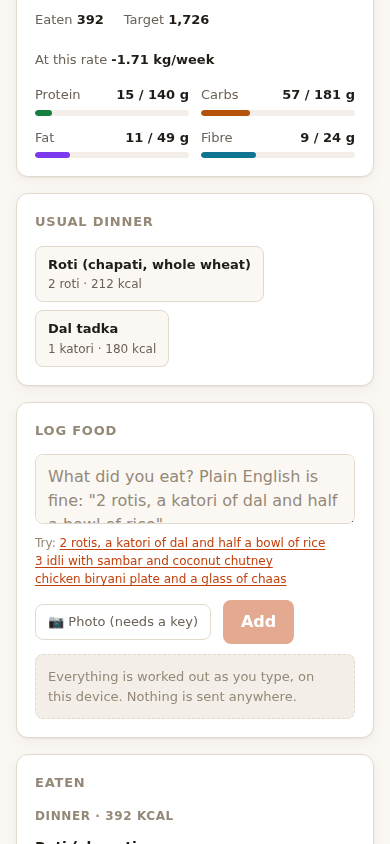
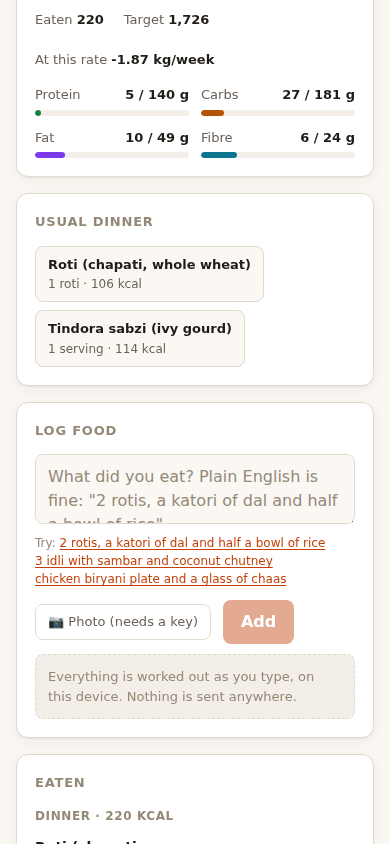
Stop unknown vegetables coming back as naan
Two faults, one visible symptom. Typing "tindori" logged Naan at 81%
confidence.

The first is a plain gap: tindora was not in the table, and neither were
karela, turai, parwal, arbi, kathal, suran, tinda, drumstick, gawar,
kaddu, sarson ka saag, raw banana, masoor dal or urad dal. Eighteen
entries added with their regional names as aliases, so tendli, kundru
and tondli all reach the same row.

The second is worse, because it would have mislabelled any missing food.
When no word in a phrase is known, the matcher falls back to pure
spelling similarity - which is right for "panner", and badly wrong here:
"tindori" is one vowel from "tandoori" and a completely different dish.
Edit distance cannot tell those apart, so a fallback match now has to be
near-exact to be asserted at all. Anything less is demoted below the
acceptance threshold and offered as "did you mean", with the near misses
listed, instead of being logged silently.

Two-letter fragments no longer enter the vocabulary either. "ka" appears
in "Sarson ka saag", which was enough to make "bhutte ka kees" look like
a recognised dish; Hindi connectives are now filler words on both sides
of the comparison.

Five regression tests, including the exact reported input.

diff --git a/src/data/foods.ts b/src/data/foods.ts
@@ -188,6 +188,42 @@ export const FOODS: Food[] = [
     [95, 2.6, 9, 5.4, 3.5], 'indian veg south sabzi', { portions: { ...SABZI } }),
   f('bhaji', 'Pav bhaji (bhaji only)', 'pav bhaji|bhaaji',
     [125, 2.8, 13, 7, 3.4], 'indian veg street', { portions: { ...SABZI } }),
+  f('tindora', 'Tindora sabzi (ivy gourd)', 'tindora|tindori|tendli|tondli|kundru|ivy gourd|tindora fry',
+    [95, 1.6, 7, 6.5, 3], 'indian veg sabzi', { portions: { ...SABZI } }),
+  f('tinda', 'Tinda sabzi (apple gourd)', 'tinda|tinday|apple gourd|round gourd',
+    [85, 1.4, 7, 5.8, 2.5], 'indian veg sabzi', { portions: { ...SABZI } }),
+  f('karela', 'Karela sabzi (bitter gourd)', 'karela|karela fry|bitter gourd|bitter melon|pavakkai',
+    [120, 2.5, 11, 7.5, 4], 'indian veg sabzi', { portions: { ...SABZI } }),
+  f('turai', 'Turai sabzi (ridge gourd)', 'turai|torai|tori|ridge gourd|beerakaya',
+    [70, 1.3, 6.5, 4.5, 2.4], 'indian veg sabzi', { portions: { ...SABZI } }),
+  f('parwal', 'Parwal sabzi (pointed gourd)', 'parwal|potol|pointed gourd|parval',
+    [95, 1.8, 8, 6, 3], 'indian veg sabzi', { portions: { ...SABZI } }),
+  f('arbi', 'Arbi sabzi (colocasia)', 'arbi|arvi|colocasia|taro|ghuiyan',
+    [145, 2, 21, 6, 3.5], 'indian veg sabzi', { portions: { ...SABZI } }),
+  f('kathal', 'Kathal sabzi (raw jackfruit)', 'kathal|jackfruit sabzi|raw jackfruit|phanas',
+    [140, 2.2, 18, 7, 3.5], 'indian veg sabzi', { portions: { ...SABZI } }),
+  f('suran', 'Suran sabzi (yam)', 'suran|jimikand|elephant foot yam|yam sabzi|ol',
+    [150, 2, 24, 5.5, 4], 'indian veg sabzi', { portions: { ...SABZI } }),
+  f('drumstick', 'Drumstick sabzi', 'drumstick|sahjan|moringa|munakkaya|sehjan',
+    [85, 2.5, 8, 5, 3.5], 'indian veg sabzi', { portions: { ...SABZI } }),
+  f('gawar', 'Gawar phali sabzi (cluster beans)', 'gawar|guar|cluster beans|gavar',
+    [100, 2.4, 9, 5.8, 4], 'indian veg sabzi', { portions: { ...SABZI } }),
+  f('kaddu', 'Kaddu sabzi (pumpkin)', 'kaddu|pumpkin sabzi|sitaphal sabzi|petha sabzi',
+    [85, 1.3, 9, 5, 2.5], 'indian veg sabzi', { portions: { ...SABZI } }),
+  f('shimla-mirch', 'Capsicum sabzi', 'shimla mirch|capsicum sabzi|bell pepper sabzi',
+    [110, 2, 9, 7, 3], 'indian veg sabzi', { portions: { ...SABZI } }),
+  f('baingan-sabzi', 'Baingan sabzi (brinjal)', 'baingan|brinjal sabzi|eggplant sabzi|vangi|aubergine',
+    [110, 1.5, 9, 7, 3.5], 'indian veg sabzi', { portions: { ...SABZI } }),
+  f('kacche-kele', 'Raw banana sabzi', 'kacche kele ki sabzi|raw banana sabzi|plantain sabzi|vazhakkai',
+    [130, 1.5, 22, 4.5, 3], 'indian veg sabzi', { portions: { ...SABZI } }),
+  f('sarson-saag', 'Sarson ka saag', 'sarson saag|mustard greens|sarso ka saag',
+    [120, 4, 8, 8, 4], 'indian veg sabzi', { portions: { ...CURRY } }),
+  f('saag', 'Palak sabzi (saag)', 'saag|palak sabzi|spinach sabzi|palak bhaji',
+    [110, 3.5, 7, 7.5, 3.5], 'indian veg sabzi', { portions: { ...SABZI } }),
+  f('masoor-dal', 'Masoor dal', 'masoor|red lentil|malka masoor',
+    [110, 6, 14, 2.8, 4], 'indian veg dal', { portions: { ...CURRY } }),
+  f('urad-dal', 'Urad dal', 'urad|black gram dal|maa ki dal',
+    [130, 7, 15, 4, 4], 'indian veg dal', { portions: { ...CURRY } }),
   f('sundal', 'Chana sundal', 'sundal|black chana',
     [155, 7, 20, 5, 6], 'indian veg south snack', { portions: { ...SABZI } }),
 

diff --git a/tests/parsing.test.ts b/tests/parsing.test.ts
@@ -2,7 +2,7 @@ import { describe, expect, it } from 'vitest';
 import { diceSimilarity, phoneticFold, singular, tokenize, tokensMatch } from '../src/core/text.ts';
 import { parseAmount } from '../src/core/units.ts';
 import { expandCombos, parseFoodItem, parseFoodLine, splitItems } from '../src/core/parseFood.ts';
-import { matchFood } from '../src/core/match.ts';
+import { MATCH_THRESHOLD, matchFood } from '../src/core/match.ts';
 
 describe('phonetic folding', () => {
   it('collapses the transliterations of the same word', () => {
@@ -134,6 +134,34 @@ describe('matching foods', () => {
     expect(best?.ignoredWords).toContain('amma');
   });
 
+  it('knows the vegetables people actually cook', () => {
+    // Every one of these was missing, and each was silently matched to
+    // something else entirely before it was added.
+    expect(matchFood('tindori')[0]?.item.id).toBe('tindora');
+    expect(matchFood('tendli')[0]?.item.id).toBe('tindora');
+    expect(matchFood('karela')[0]?.item.id).toBe('karela');
+    expect(matchFood('turai')[0]?.item.id).toBe('turai');
+    expect(matchFood('arbi')[0]?.item.id).toBe('arbi');
+    expect(matchFood('kathal')[0]?.item.id).toBe('kathal');
+    expect(matchFood('sarson ka saag')[0]?.item.id).toBe('sarson-saag');
+    expect(matchFood('masoor dal')[0]?.item.id).toBe('masoor-dal');
+  });
+
+  it('will not pass an unknown word off as a similar-sounding one', () => {
+    // "tindori" is one vowel from "tandoori" and a completely different food.
+    // Before the guess threshold this matched Naan at 81% confidence.
+    const [best] = matchFood('bhutte ka kees');
+    expect(best?.guessed).toBe(true);
+    expect(best?.score ?? 0).toBeLessThan(MATCH_THRESHOLD);
+  });
+
+  it('does not let a connective in the middle of a phrase carry a match', () => {
+    // "ka" appears in "Sarson ka saag", and used to make any phrase
+    // containing it look like a recognised dish.
+    const [best] = matchFood('bhutte ka kees');
+    expect(best?.item.id).not.toBe('sarson-saag');
+  });
+
   it('refuses to guess at nonsense', () => {
     const [best] = matchFood('qwertyuiop');
     expect(best === undefined || best.score < 0.5).toBe(true);
@@ -181,6 +209,19 @@ describe('parsing a whole meal', () => {
     const item = parseFoodItem('1 plate of zzzxqq');
     expect(item.unresolved).toBe(true);
     expect(item.nutrients.kcal).toBe(0);
+  });
+
+  it('asks about a dish it does not know rather than logging the wrong one', () => {
+    const item = parseFoodItem('1 plate bhutte ka kees');
+    expect(item.unresolved).toBe(true);
+    expect(item.nutrients.kcal).toBe(0);
+    // The near misses are still offered, so it is one tap to correct.
+    expect(item.alternatives.length).toBeGreaterThan(0);
+  });
+
+  it('logs a vegetable that used to come back as bread', () => {
+    const line = parseFoodLine('roti, tindori');
+    expect(line.items.map((i) => i.foodId)).toEqual(['roti', 'tindora']);
   });
 
   it('explains every assumption it made', () => {

diff --git a/src/core/match.ts b/src/core/match.ts
@@ -141,7 +141,12 @@ export function foodVocabulary(): Set<string> {
   const set = new Set<string>();
   for (const food of FOODS) {
     for (const name of [food.name, ...food.aliases]) {
-      for (const token of foldTokens(name)) set.add(token);
+      for (const token of foldTokens(name)) {
+        // A one or two letter fragment identifies nothing. Letting "ka" into
+        // the vocabulary made "bhutte ka kees" look like a known dish because
+        // one connective in the middle of it happened to appear in a name.
+        if (token.length > 2) set.add(token);
+      }
     }
   }
   vocabulary = set;
@@ -160,7 +165,23 @@ function candidates(): Candidate<Food>[] {
 export interface FoodMatch extends MatchResult<Food> {
   /** Words in the phrase that no food in the table has ever heard of. */
   ignoredWords: string[];
+  /**
+   * True when not one word in the phrase was a known food word, so this result
+   * came from fuzzy spelling alone and is a suggestion rather than an answer.
+   */
+  guessed: boolean;
 }
+
+/**
+ * How close a pure-spelling guess must be before it is treated as a real match.
+ *
+ * A word the table has never seen is usually a food that is genuinely missing,
+ * not a typo. Edit distance is happy to call "tindori" a misspelling of
+ * "tandoori" - one vowel apart, and a completely different dish - so a match
+ * found this way has to be near-exact before it is asserted. Anything less is
+ * demoted to a suggestion, and the person is asked instead of being told.
+ */
+const GUESS_THRESHOLD = 0.9;
 
 /**
  * Match a food phrase. Words that appear nowhere in the food table are dropped
@@ -178,8 +199,21 @@ export function matchFood(phrase: string, limit = 5): FoodMatch[] {
 
   // If nothing is recognisable, still try the original phrase: the fuzzy
   // scorer may find a near-miss spelling the vocabulary check rejected.
-  const query = kept.length > 0 ? kept.join(' ') : phrase;
-  return rank(query, candidates(), limit).map((result) => ({ ...result, ignoredWords: ignored }));
+  const guessed = kept.length === 0;
+  const query = guessed ? phrase : kept.join(' ');
+  const results = rank(query, candidates(), limit);
+
+  // A guess that is not near-certain is demoted below the acceptance
+  // threshold, so it is offered as "did you mean" rather than logged silently.
+  const confident = (results[0]?.score ?? 0) >= GUESS_THRESHOLD;
+  const penalty = guessed && !confident ? 0.5 : 1;
+
+  return results.map((result) => ({
+    ...result,
+    score: result.score * penalty,
+    ignoredWords: ignored,
+    guessed,
+  }));
 }
 
 /** Below this, we say we did not recognise the food rather than guess. */

diff --git a/src/core/text.ts b/src/core/text.ts
@@ -48,6 +48,9 @@ export const FILLER_WORDS = new Set([
   'about', 'approx', 'around', 'roughly', 'ate', 'eat', 'had', 'having', 'i', 'today',
   'for', 'breakfast', 'lunch', 'dinner', 'snack', 'this', 'morning', 'evening',
   'night', 'was', 'were', 'is', 'and', 'also', 'then', 'just', 'only',
+  // Hindi and Urdu connectives, which carry no more meaning than "of" does.
+  'ka', 'ki', 'ke', 'aur', 'mein', 'me', 'se', 'wala', 'wali', 'thoda',
+  'thodi', 'khaya', 'khai', 'khaya', 'piya', 'liya', 'aaj', 'kal', 'maine',
 ]);
 
 /**

diff --git a/README.md b/README.md
@@ -34,7 +34,7 @@ and stop.
 
 Three things follow from taking that seriously:
 
-**The database is Indian-first.** 218 foods, over half of them Indian, stored as
+**The database is Indian-first.** 236 foods, over half of them Indian, stored as
 they are eaten — a curry with the oil already in it, because that is the only
 weight anyone can estimate. It knows a katori of dal is about 150 g, that one
 roti is 40 g and one idli is 45 g, and that "chole bhature" is a katori of chole
@@ -187,7 +187,7 @@ Then open the printed URL. Everything is client-side; there is nothing else to
 start.
 
 ```bash
-npm test         # 116 tests
+npm test         # 121 tests
 npm run build    # production bundle into dist/
 npm run typecheck
 ```
@@ -227,7 +227,7 @@ src/
     tools.ts         What the assistant may do; every number comes from core/
     gemini.ts        The only network call in the project, and it is optional
   data/
-    foods.ts         218 foods, per 100 g as eaten
+    foods.ts         236 foods, per 100 g as eaten
     exercises.ts     METs, with speed bands for paced activities
     workouts.ts      Movements by pattern, splits by training days
   ui/                The web app: vanilla TypeScript, no framework
@@ -240,7 +240,7 @@ only dev dependencies.
 
 ### The tests are the interesting part
 
-116 of them, and several are checks on the data rather than the code. One
+121 of them, and several are checks on the data rather than the code. One
 recomputes every food's energy from its own macros using Atwater factors and
 fails if any row disagrees by more than a quarter — which is how you catch a
 typo in 218 hand-entered rows. Another feeds the maintenance estimator a
